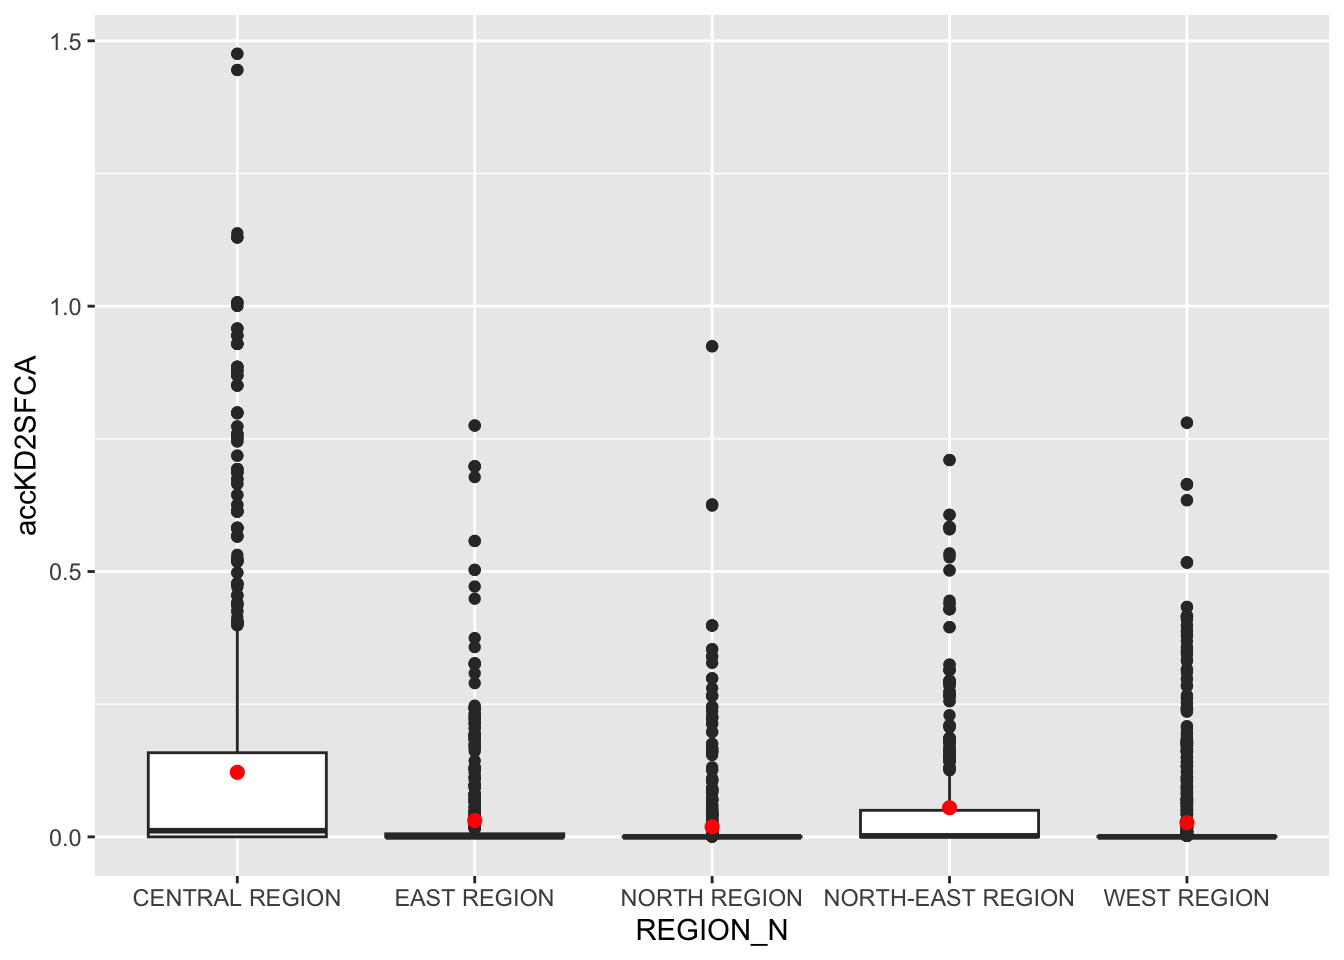
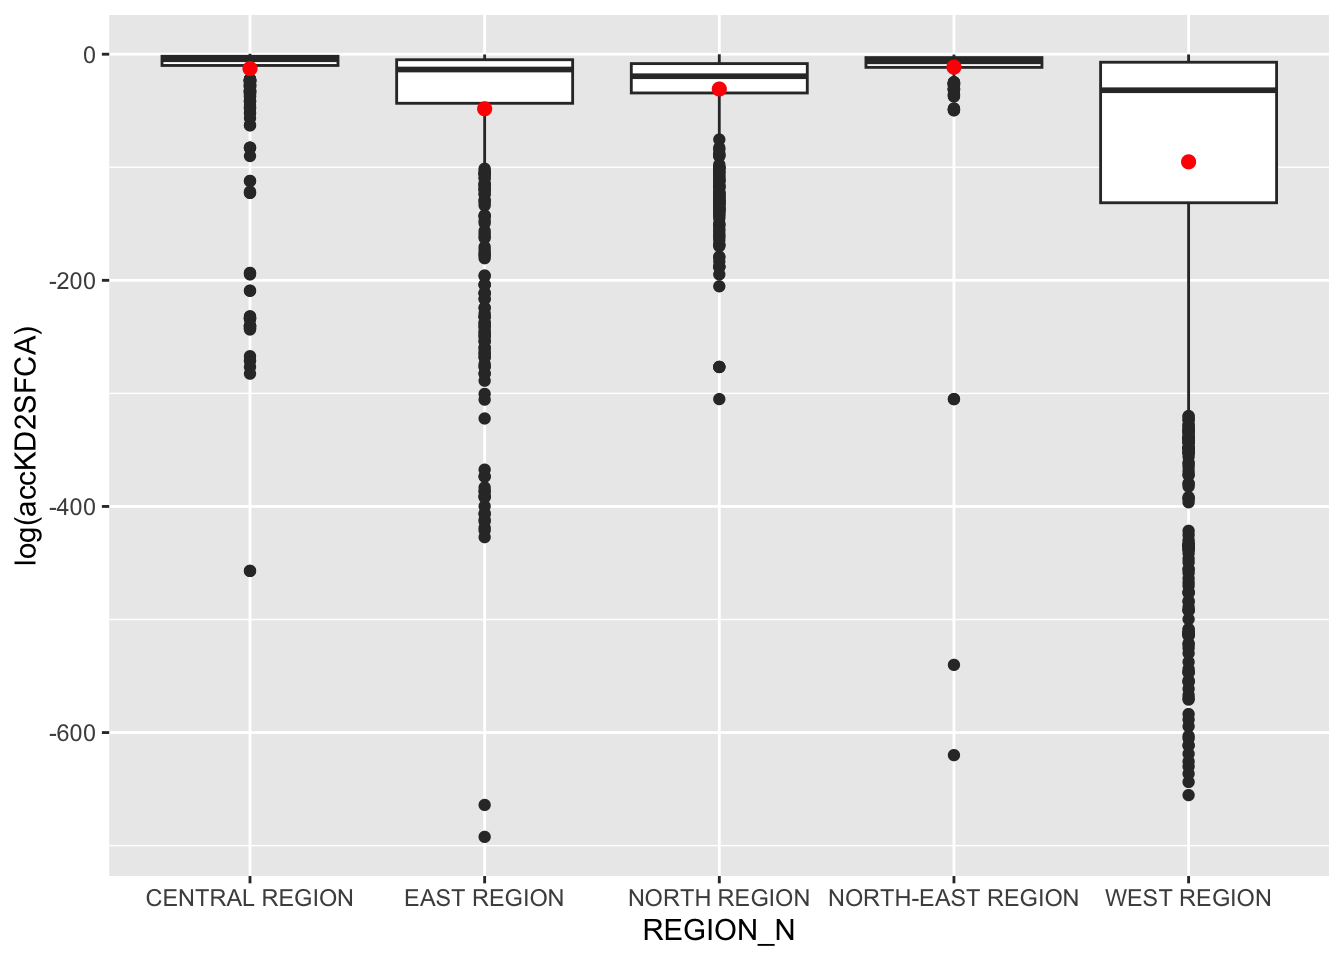
In Class

diff --git a/_site/lessons/In-class/in-class_ex10/In-class_Ex10.html b/_site/lessons/In-class/in-class_ex10/In-class_Ex10.html
@@ -3800,7 +3800,7 @@ PROJCRS["SVY21 / Singapore TM",
 <span id="cb29-2"><a href="#cb29-2" aria-hidden="true" tabindex="-1"></a>                          <span class="at">join =</span> st_intersects)</span>
 <span id="cb29-3"><a href="#cb29-3" aria-hidden="true" tabindex="-1"></a></span>
 <span id="cb29-4"><a href="#cb29-4" aria-hidden="true" tabindex="-1"></a><span class="fu">ggplot</span>(<span class="at">data=</span>hexagon_KD2SFCA, </span>
-<span id="cb29-5"><a href="#cb29-5" aria-hidden="true" tabindex="-1"></a>       <span class="fu">aes</span>(<span class="at">y =</span> accKD2SFCA, </span>
+<span id="cb29-5"><a href="#cb29-5" aria-hidden="true" tabindex="-1"></a>       <span class="fu">aes</span>(<span class="at">y =</span> <span class="fu">log</span>(accKD2SFCA), </span>
 <span id="cb29-6"><a href="#cb29-6" aria-hidden="true" tabindex="-1"></a>           <span class="at">x=</span> REGION_N)) <span class="sc">+</span></span>
 <span id="cb29-7"><a href="#cb29-7" aria-hidden="true" tabindex="-1"></a>  <span class="fu">geom_boxplot</span>() <span class="sc">+</span></span>
 <span id="cb29-8"><a href="#cb29-8" aria-hidden="true" tabindex="-1"></a>  <span class="fu">geom_point</span>(<span class="at">stat=</span><span class="st">"summary"</span>, </span>
@@ -3869,7 +3869,7 @@ PROJCRS["SVY21 / Singapore TM",
 <span id="cb32-2"><a href="#cb32-2" aria-hidden="true" tabindex="-1"></a>                       <span class="at">join =</span> st_intersects)</span>
 <span id="cb32-3"><a href="#cb32-3" aria-hidden="true" tabindex="-1"></a></span>
 <span id="cb32-4"><a href="#cb32-4" aria-hidden="true" tabindex="-1"></a><span class="fu">ggplot</span>(<span class="at">data=</span>hexagon_SAM, </span>
-<span id="cb32-5"><a href="#cb32-5" aria-hidden="true" tabindex="-1"></a>       <span class="fu">aes</span>(<span class="at">y =</span> accSAM, </span>
+<span id="cb32-5"><a href="#cb32-5" aria-hidden="true" tabindex="-1"></a>       <span class="fu">aes</span>(<span class="at">y =</span> <span class="fu">log</span>(accSAM), </span>
 <span id="cb32-6"><a href="#cb32-6" aria-hidden="true" tabindex="-1"></a>           <span class="at">x=</span> REGION_N)) <span class="sc">+</span></span>
 <span id="cb32-7"><a href="#cb32-7" aria-hidden="true" tabindex="-1"></a>  <span class="fu">geom_boxplot</span>() <span class="sc">+</span></span>
 <span id="cb32-8"><a href="#cb32-8" aria-hidden="true" tabindex="-1"></a>  <span class="fu">geom_point</span>(<span class="at">stat=</span><span class="st">"summary"</span>, </span>
